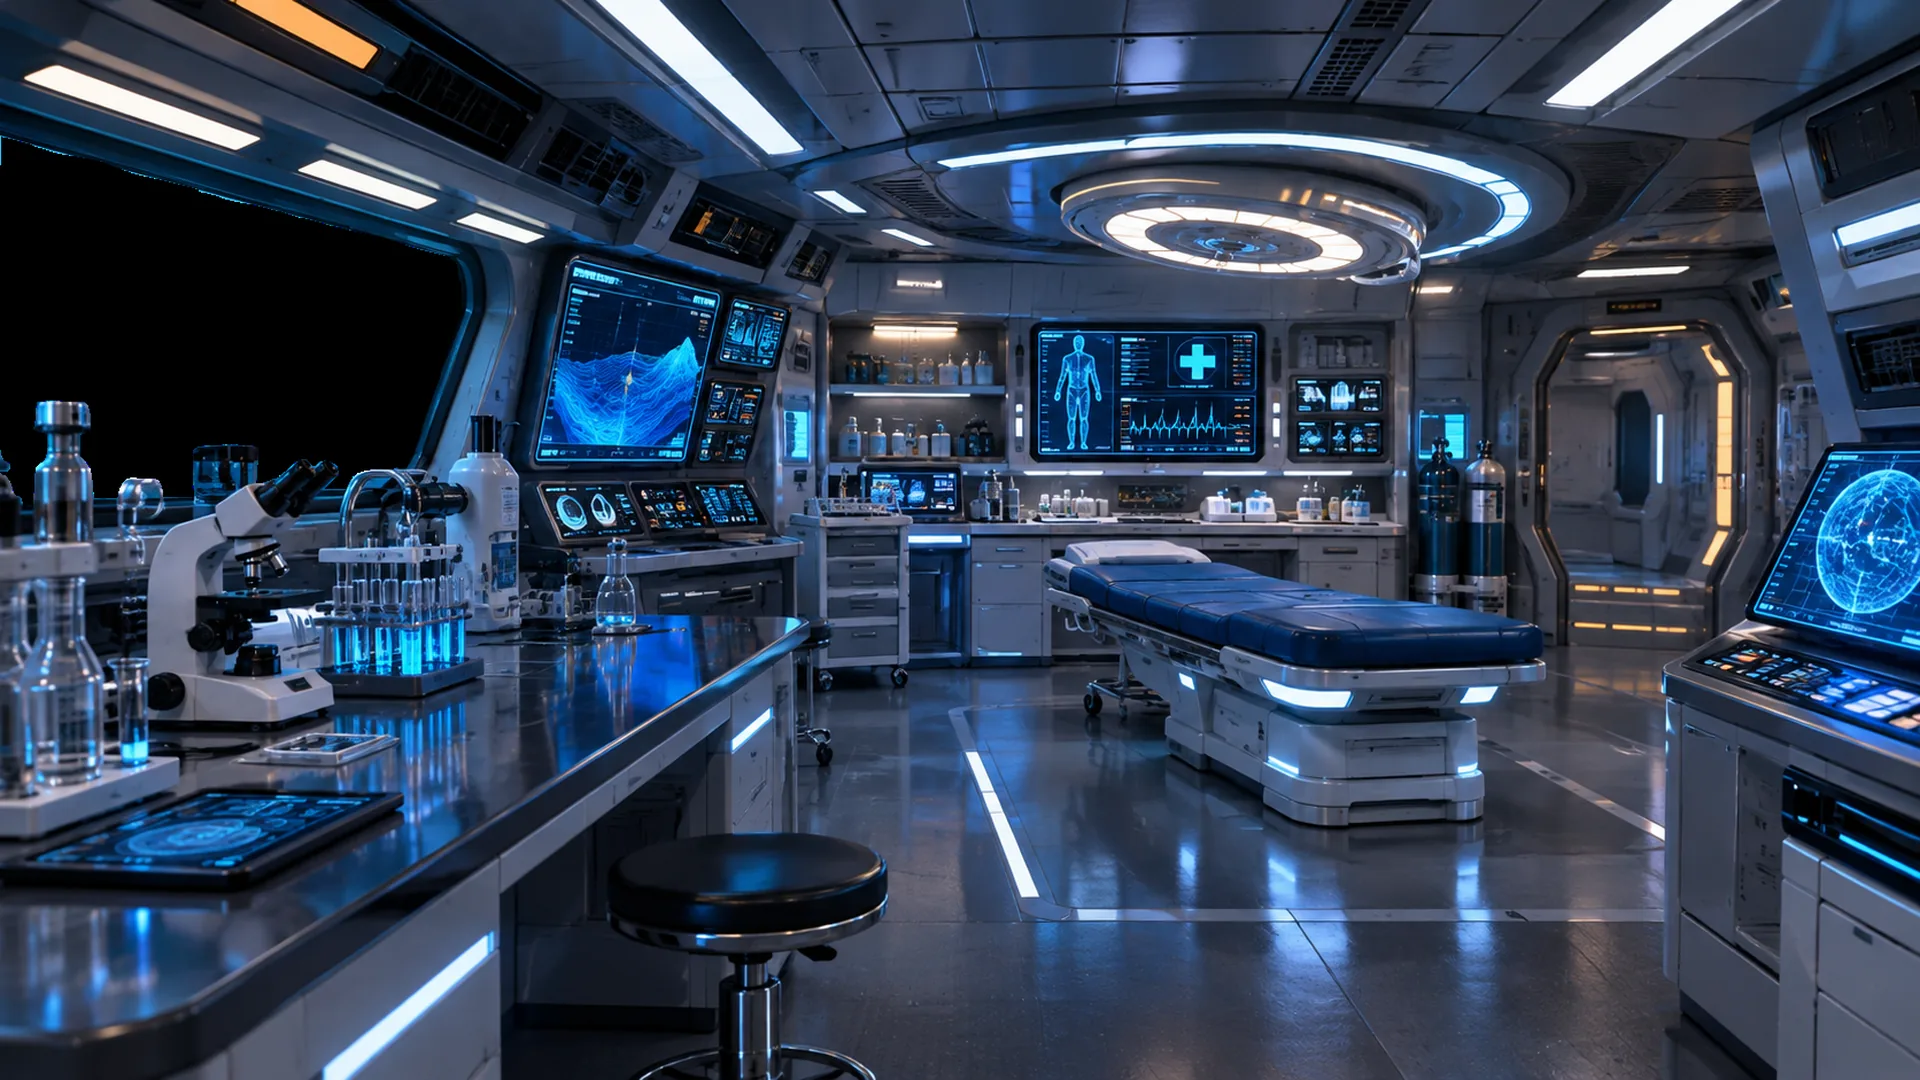
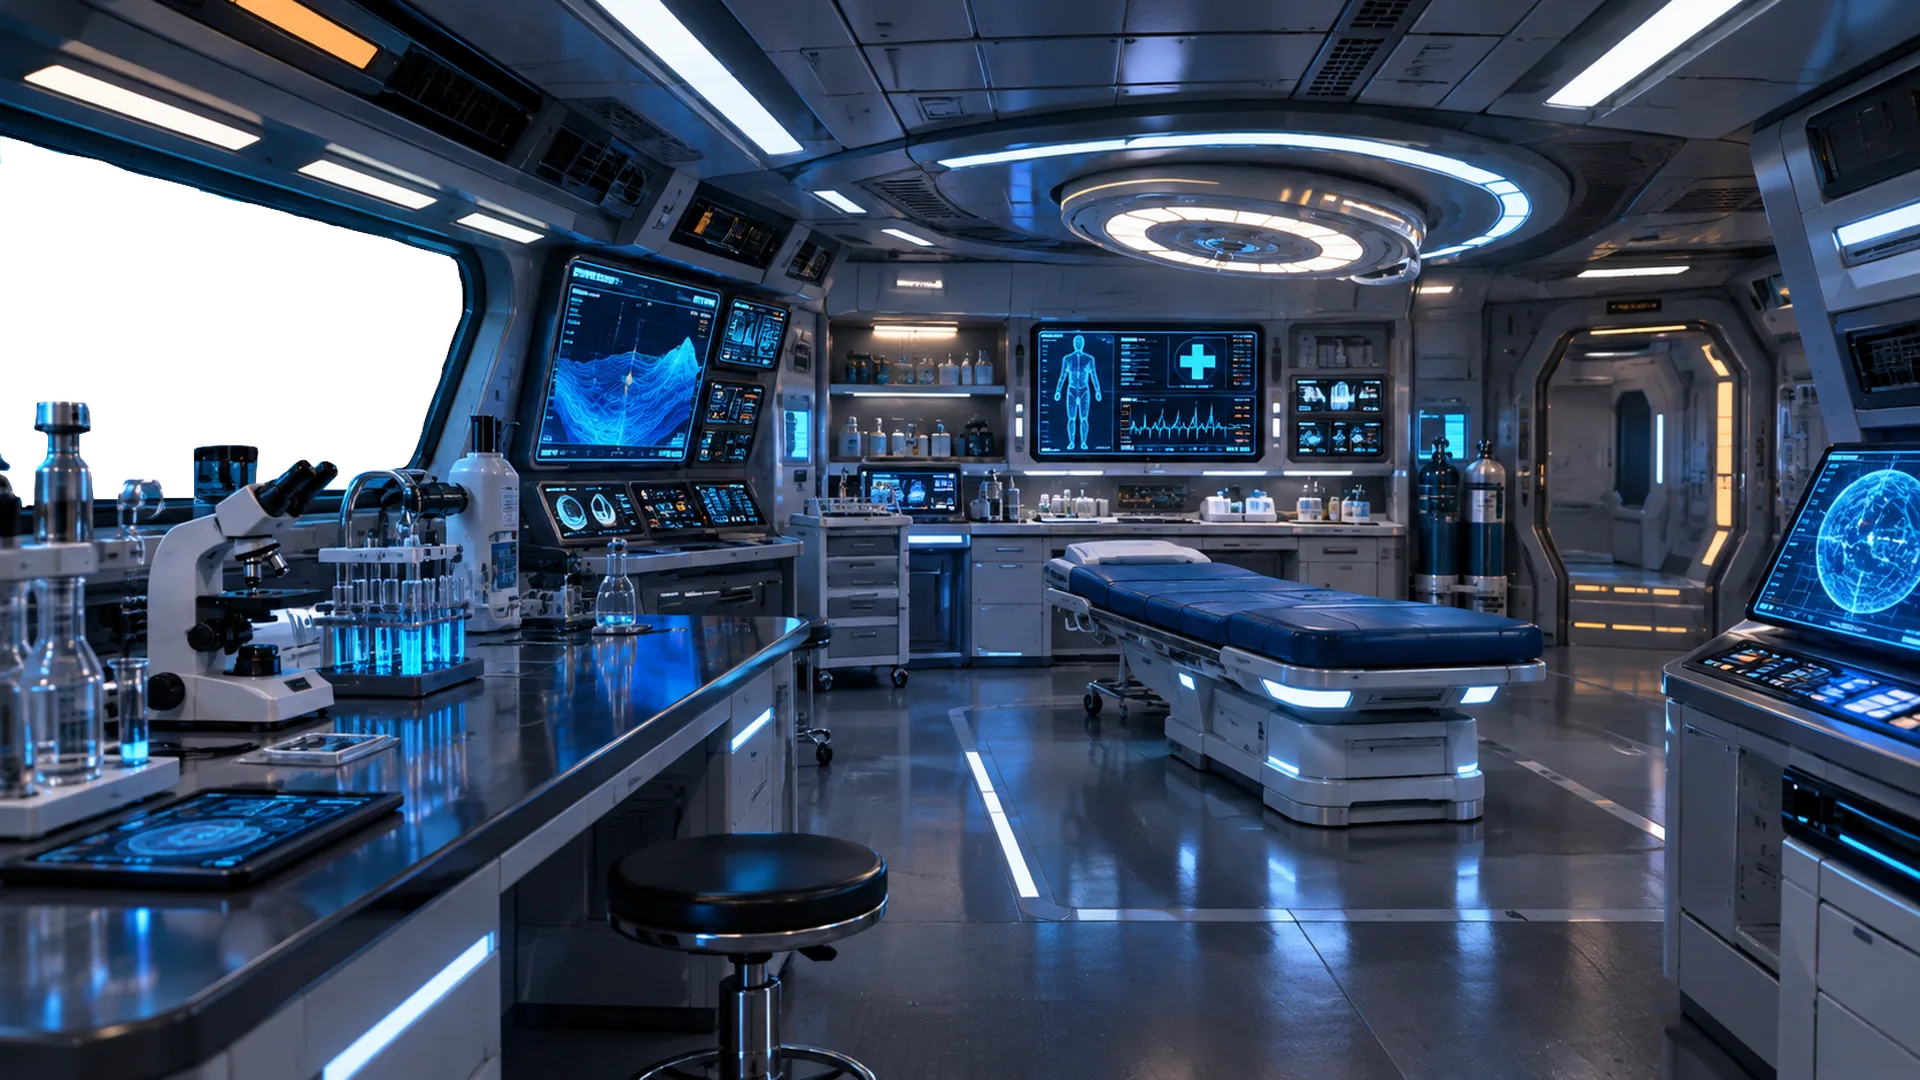
Walkway AN-1 (Launch Bay, Engineering), link between walkways, sea view in the medbay window
Claude-Session: https://claude.ai/code/session_01QsU1qWEAPEAk9jRv6Wrose

Changed region(s): [[0.0, 0.1222, 0.25, 0.4583]]

diff --git a/tablet/js/scene.js b/tablet/js/scene.js
@@ -77,8 +77,15 @@ export function createScene(stage, { onOpen }) {
     door('MEDICAL', 446, 304, 116, 536, 'medbay'),
     door('QUARTERS', 1524, 240, 237, 710, 'quarters'),
     door('BRIDGE', 805, 377, 323, 293, 'bridge'),
-    door('ENGINEERING', 600, 380, 100, 320, 'engineering', true),
-    door('LAUNCH BAY', 1235, 380, 95, 320, 'launchbay', true));
+    hs('AN-1 DECK ▼', 560, 900, 800, 180, () => onOpen('walkway2'), 'mid'));      // walk on to the next section
+  // walkway AN-1 (concept art): the junction past A1. Launch Bay on the left, Engineering on the right; the sign sits in the cutout.
+  const walkway2 = el('div', { class: 'scene walkway2', hidden: true });
+  walkway2.append(
+    el('div', { class: 'an-sign', style: 'left:677px;top:111px;width:565px;height:101px' }, [el('div', { class: 'l', text: '◂ LAUNCH BAY' }), el('div', { class: 'r', text: 'ENGINEERING ▸' })]),
+    el('img', { class: 'frame', src: 'assets/walkway-an1.webp', alt: '', draggable: 'false', decoding: 'async' }),
+    door('LAUNCH BAY', 396, 287, 494, 586, 'launchbay'),
+    door('ENGINEERING', 1062, 300, 413, 440, 'engineering'),
+    hs('A1 DECK ▼', 560, 900, 800, 180, () => onOpen('walkway'), 'mid'));
   // science lab: placeholder art (medbay concept). Samples, analysis and research live in the Lab station; the ROV in the Launch Bay.
   const science = el('div', { class: 'scene science', hidden: true });
   science.append(el('img', { src: 'assets/science.webp', alt: '', draggable: 'false', style: 'position:absolute;inset:0;width:100%;height:100%;object-fit:cover' }),
@@ -91,7 +98,9 @@ export function createScene(stage, { onOpen }) {
     el('div', { class: 'art-note', text: 'Placeholder art' }));
   // medbay (concept art). Treatment and crew health are not built yet; the exam table is a locked tap area for now.
   const medbay = el('div', { class: 'scene medbay', hidden: true });
-  medbay.append(el('img', { class: 'frame', src: 'assets/medbay.webp', alt: '', draggable: 'false', decoding: 'async' }),
+  const mbRead = el('div', { class: 'mb-read' });
+  const mbView = el('div', { class: 'mb-view' }, [el('div', { class: 'mb-snow' }), el('div', { class: 'mb-snow s2' }), mbRead]);   // the cutout in the art shows the sea outside
+  medbay.append(mbView, el('img', { class: 'frame', src: 'assets/medbay.webp', alt: '', draggable: 'false', decoding: 'async' }),
     hs('EXAM TABLE', 1045, 540, 500, 290, () => onOpen('medbay-station'), 'mid', 'locked'),
     hs('WALKWAY ▸', 1516, 327, 230, 293, () => onOpen('walkway'), 'mid'));
   // launch bay: placeholder art. Where Remora, the WSKRs and the away boats physically leave and return.
@@ -102,18 +111,23 @@ export function createScene(stage, { onOpen }) {
     <g fill="none" stroke="#2f8f9d" stroke-width="3" opacity=".6"><rect x="420" y="330" width="360" height="200" rx="20"/><rect x="1140" y="330" width="360" height="200" rx="20"/></g>
     <text x="600" y="440" fill="#2f8f9d" font-size="34" font-family="sans-serif" text-anchor="middle" opacity=".7">REMORA</text><text x="1320" y="440" fill="#2f8f9d" font-size="34" font-family="sans-serif" text-anchor="middle" opacity=".7">WSKR RACK</text></svg>`;
   bay.append(hs('BAY CONTROL', 760, 560, 400, 200, () => onOpen('bay'), 'mid'),
-    hs('◂ WALKWAY', 0, 890, 330, 190, () => onOpen('walkway'), 'mid'),
+    hs('◂ WALKWAY', 0, 890, 330, 190, () => onOpen('walkway2'), 'mid'),
     el('div', { class: 'art-note', text: 'Placeholder art' }));
-  stage.append(bridge, quarters, walkway, science, medbay, bay);
+  stage.append(bridge, quarters, walkway, walkway2, science, medbay, bay);
 
   const api = {
     inQuarters: false, where: 'bridge',
     show(which) {
       api.where = which; api.inQuarters = which === 'quarters';
-      bridge.hidden = which !== 'bridge'; quarters.hidden = which !== 'quarters'; walkway.hidden = which !== 'walkway'; science.hidden = which !== 'science'; medbay.hidden = which !== 'medbay'; bay.hidden = which !== 'launchbay';
+      bridge.hidden = which !== 'bridge'; quarters.hidden = which !== 'quarters'; walkway.hidden = which !== 'walkway'; walkway2.hidden = which !== 'walkway2'; science.hidden = which !== 'science'; medbay.hidden = which !== 'medbay'; bay.hidden = which !== 'launchbay';
       cache.clear(); api.update();
     },
     update() {
+      if (api.where === 'medbay') {
+        const t = `EXTERNAL VIEW · ${Math.round(sim.s.depth)} m`;
+        if (cache.get('mb') !== t) { cache.set('mb', t); mbRead.textContent = t; mbView.style.setProperty('--dark', Math.min(0.92, 0.25 + sim.s.depth / 700).toFixed(2)); }
+        return;
+      }
       if (api.where !== 'bridge') return;
       const s = sim.s;
       consoleApi.update();

diff --git a/tablet/tablet.css b/tablet/tablet.css
@@ -201,6 +201,17 @@ textarea, input { font: inherit; font-size: 16px; user-select: text; -webkit-use
 .wsign-box { pointer-events: none; }
 .wsign { width: 412px; display: flex; align-items: center; justify-content: center; background: #02080f; color: #7fe9ff; font: 800 56px/1 var(--font); letter-spacing: 0.1em; overflow: hidden; text-shadow: 0 0 14px #2fb6ff, 0 0 3px #bff4ff; }
 
+/* Walkway AN-1 sign (sits in the cutout, behind the art) */
+.an-sign { position: absolute; box-sizing: border-box; padding: 6px 54px; display: flex; flex-direction: column; justify-content: center; background: #02080f; color: #7fe9ff; font: 800 38px/1.25 var(--font); letter-spacing: 0.1em; text-shadow: 0 0 12px #2fb6ff, 0 0 3px #bff4ff; }
+.an-sign .r { text-align: right; }
+/* Medbay window: the sea outside, behind the art. Depth sets how dark it is. */
+.mb-view { position: absolute; left: 0; top: 130px; width: 480px; height: 390px; overflow: hidden; background: linear-gradient(#0d5a7a, #05233a 70%, #020b16); }
+.mb-view::after { content: ''; position: absolute; inset: 0; background: #000; opacity: var(--dark, 0.4); }
+.mb-snow { position: absolute; inset: 0; z-index: 1; background-image: radial-gradient(circle, rgba(200, 230, 255, 0.8) 0 2px, transparent 3px), radial-gradient(circle, rgba(200, 230, 255, 0.5) 0 1.5px, transparent 2.5px); background-size: 90px 120px, 140px 170px; background-position: 0 0, 40px 60px; animation: snowdrift 16s linear infinite; }
+.mb-snow.s2 { background-size: 160px 200px, 70px 90px; animation-duration: 26s; opacity: 0.6; }
+@keyframes snowdrift { to { background-position: 0 -120px, 40px -110px; } }
+.mb-read { position: absolute; z-index: 2; left: 40px; top: 150px; font: 700 26px var(--mono); letter-spacing: 0.08em; color: #7fe9ff; text-shadow: 0 0 8px #2fb6ff; white-space: nowrap; }
+
 /* placeholder-art label (science lab, launch bay) */
 .art-note { position: absolute; right: 24px; bottom: 16px; font: 700 22px var(--font); color: #4c6a85; letter-spacing: 0.1em; text-transform: uppercase; }
 

diff --git a/tablet/js/app.js b/tablet/js/app.js
@@ -22,7 +22,7 @@ const STATIONS = {
   crew: { title: 'Communicator', icon: 'comms', hidden: true }, // opened from the pin, not the dock
 };
 const FILES = { sys: 'systems' };
-const WHERE = { bridge: 'Bridge', quarters: 'Quarters', walkway: 'Walkway', science: 'Science Lab', medbay: 'Medbay', launchbay: 'Launch Bay' };   // the back button returns to the room you came from
+const WHERE = { bridge: 'Bridge', quarters: 'Quarters', walkway: 'Walkway', walkway2: 'Walkway AN-1', science: 'Science Lab', medbay: 'Medbay', launchbay: 'Launch Bay' };   // the back button returns to the room you came from
 const SYSTEM_TEXT = {
   mission_start_tutorial: ['Welcome aboard, Captain', 'Captain Elena Voss was relieved of command at the last minute. OERA called you out of retirement to take her place on the Aqua Nova. Your quarters are ready, and your communicator pin is waiting on your desk.'],
   communicator_tutorial: ['Communicator ready', 'Pin on. Tap the badge in the top-right corner to talk to your crew. ARIA, your executive officer, is waiting to hear from you.'],
@@ -164,6 +164,7 @@ function openScene(name) {
     document.dispatchEvent(new CustomEvent('location-enter', { detail: { location: 'quarters' } }));
   } else if (name === 'bridge') { closeStation(); scene.show('bridge'); }
   else if (name === 'walkway') { closeStation(); scene.show('walkway'); }
+  else if (name === 'walkway2') { closeStation(); scene.show('walkway2'); }
   else if (name === 'sleep') sleepDialog();
   else if (name === 'science') { closeStation(); scene.show('science'); }
   else if (name === 'launchbay') { closeStation(); scene.show('launchbay'); }

diff --git a/sw.js b/sw.js
@@ -2,7 +2,7 @@
    falls back to the saved copy when offline or slow. Covers the iPad game (tablet/) and the
    iPhone PED (ped/). Only same-origin GET requests are handled: GitHub sync calls go straight to
    the network. Run `python3 tools/update_sw.py` after adding or renaming files. */
-const VERSION = '680fa3530e';
+const VERSION = '7e6c0df473';
 const CACHE = 'aquanova-' + VERSION;
 const ASSETS = [
  "tablet/",
@@ -110,6 +110,7 @@ const ASSETS = [
  "tablet/assets/quarters.webp",
  "tablet/assets/science.webp",
  "tablet/assets/splash.webp",
+ "tablet/assets/walkway-an1.webp",
  "tablet/assets/walkway.webp",
  "tablet/index.html",
  "tablet/js/app.js",

diff --git a/tools/bridge_test.py b/tools/bridge_test.py
@@ -46,7 +46,10 @@ def main():
             tap_hs("◂ WALKWAY"); page.wait_for_timeout(400)
             check(f"{tag}: lower-left leaves the bridge for the walkway", page.is_visible(".walkway") and not page.is_visible(".hs[aria-label='COMMS']"))
             page.screenshot(path=f"{SHOTS}/b-{tag}-3walkway.png")
+            page.locator('.hs[aria-label="AN-1 DECK ▼"]').tap(force=True); page.wait_for_timeout(300)
+            check(f"{tag}: AN-1 walkway", page.is_visible(".walkway2"))
             page.locator('.door[aria-label="ENGINEERING"]').tap(force=True); page.wait_for_timeout(300)
+            page.locator('.hs[aria-label="A1 DECK ▼"]').tap(force=True); page.wait_for_timeout(300)
             check(f"{tag}: engineering door says not built", "not built" in page.inner_text("#console-line"))
             page.locator('.door[aria-label="QUARTERS"]').tap(force=True); page.wait_for_timeout(400)
             check(f"{tag}: quarters door", not page.is_visible(".walkway") and page.is_visible(".hs[aria-label='TO WALKWAY']"))

diff --git a/tools/science_test.py b/tools/science_test.py
@@ -76,7 +76,8 @@ def main():
             page.screenshot(path=os.path.join(ROOT, "tools", "shots", "science_" + label.lower().replace(" ", "_") + ".png"))
             page.evaluate("document.querySelector('#station .st-head .btn').click()"); page.wait_for_timeout(300)
         check("science to walkway", tap("WALKWAY ▸")); page.wait_for_timeout(300)
-        check("walkway to launch bay", tap("LAUNCH BAY")); page.wait_for_timeout(500)
+        check("walkway to AN-1", tap("AN-1 DECK ▼")); page.wait_for_timeout(300)
+        check("AN-1 to launch bay", tap("LAUNCH BAY")); page.wait_for_timeout(500)
         check("open BAY CONTROL", tap("BAY CONTROL")); page.wait_for_timeout(600)
         txt = page.inner_text("#station").lower()
         check("bay shows Remora, WSKR names and Sea Crab", "remora" in txt and "scout" in txt and "sea crab" in txt, txt[:120])
